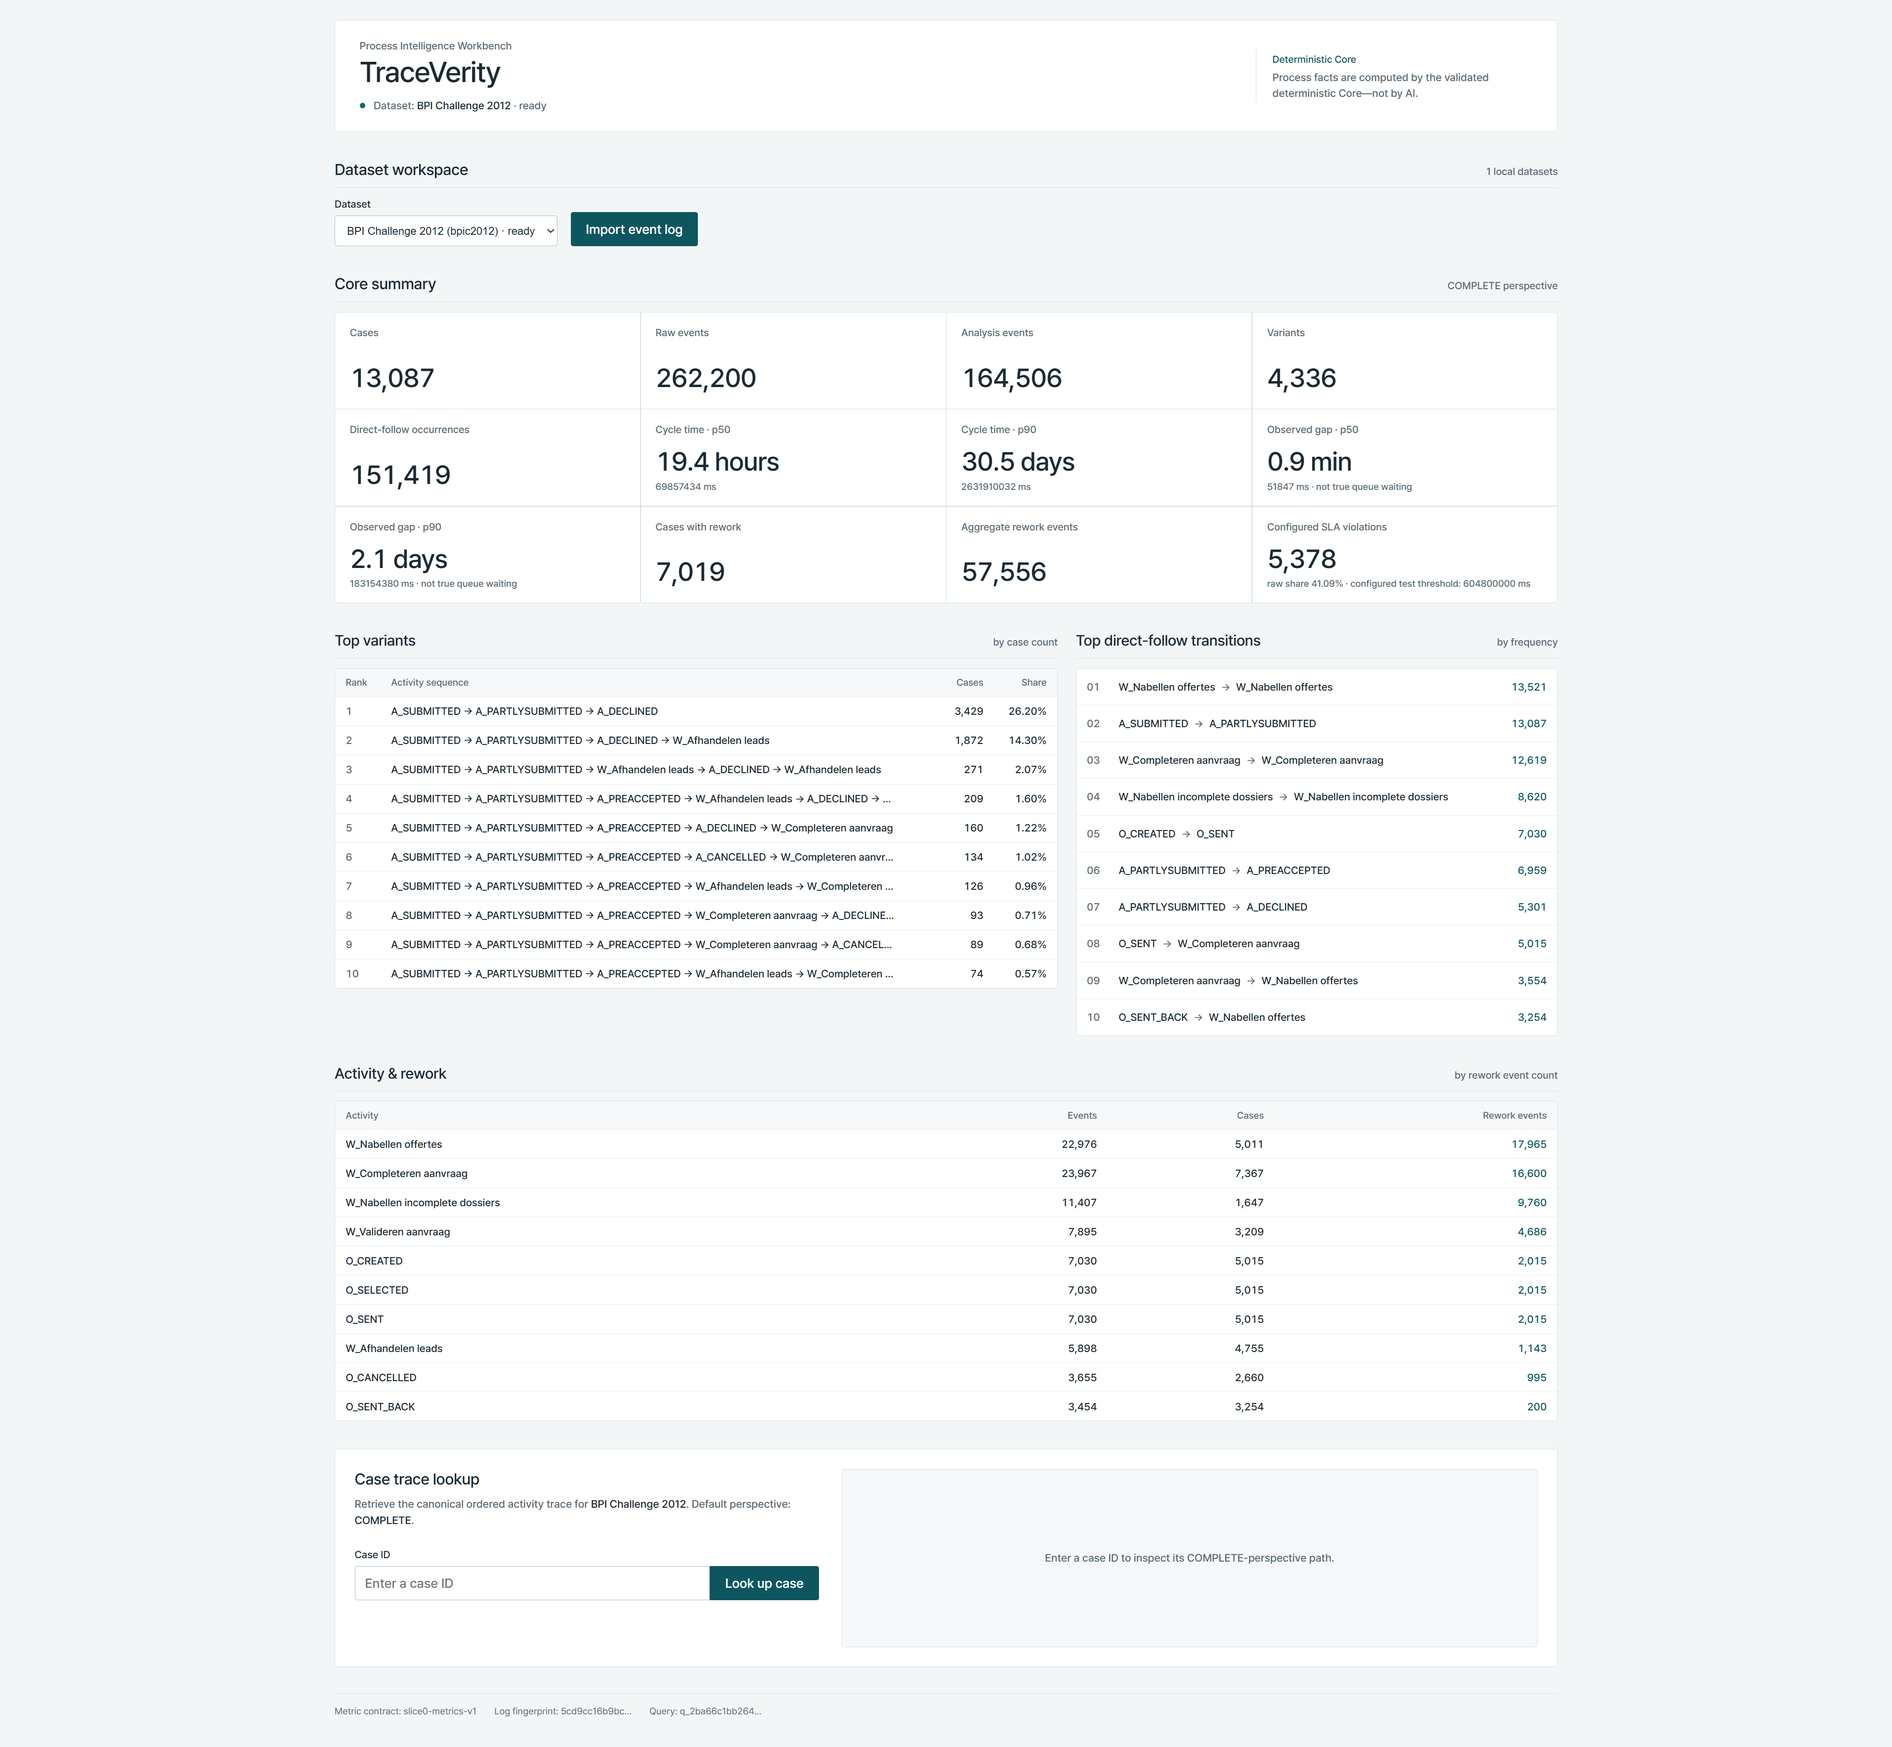
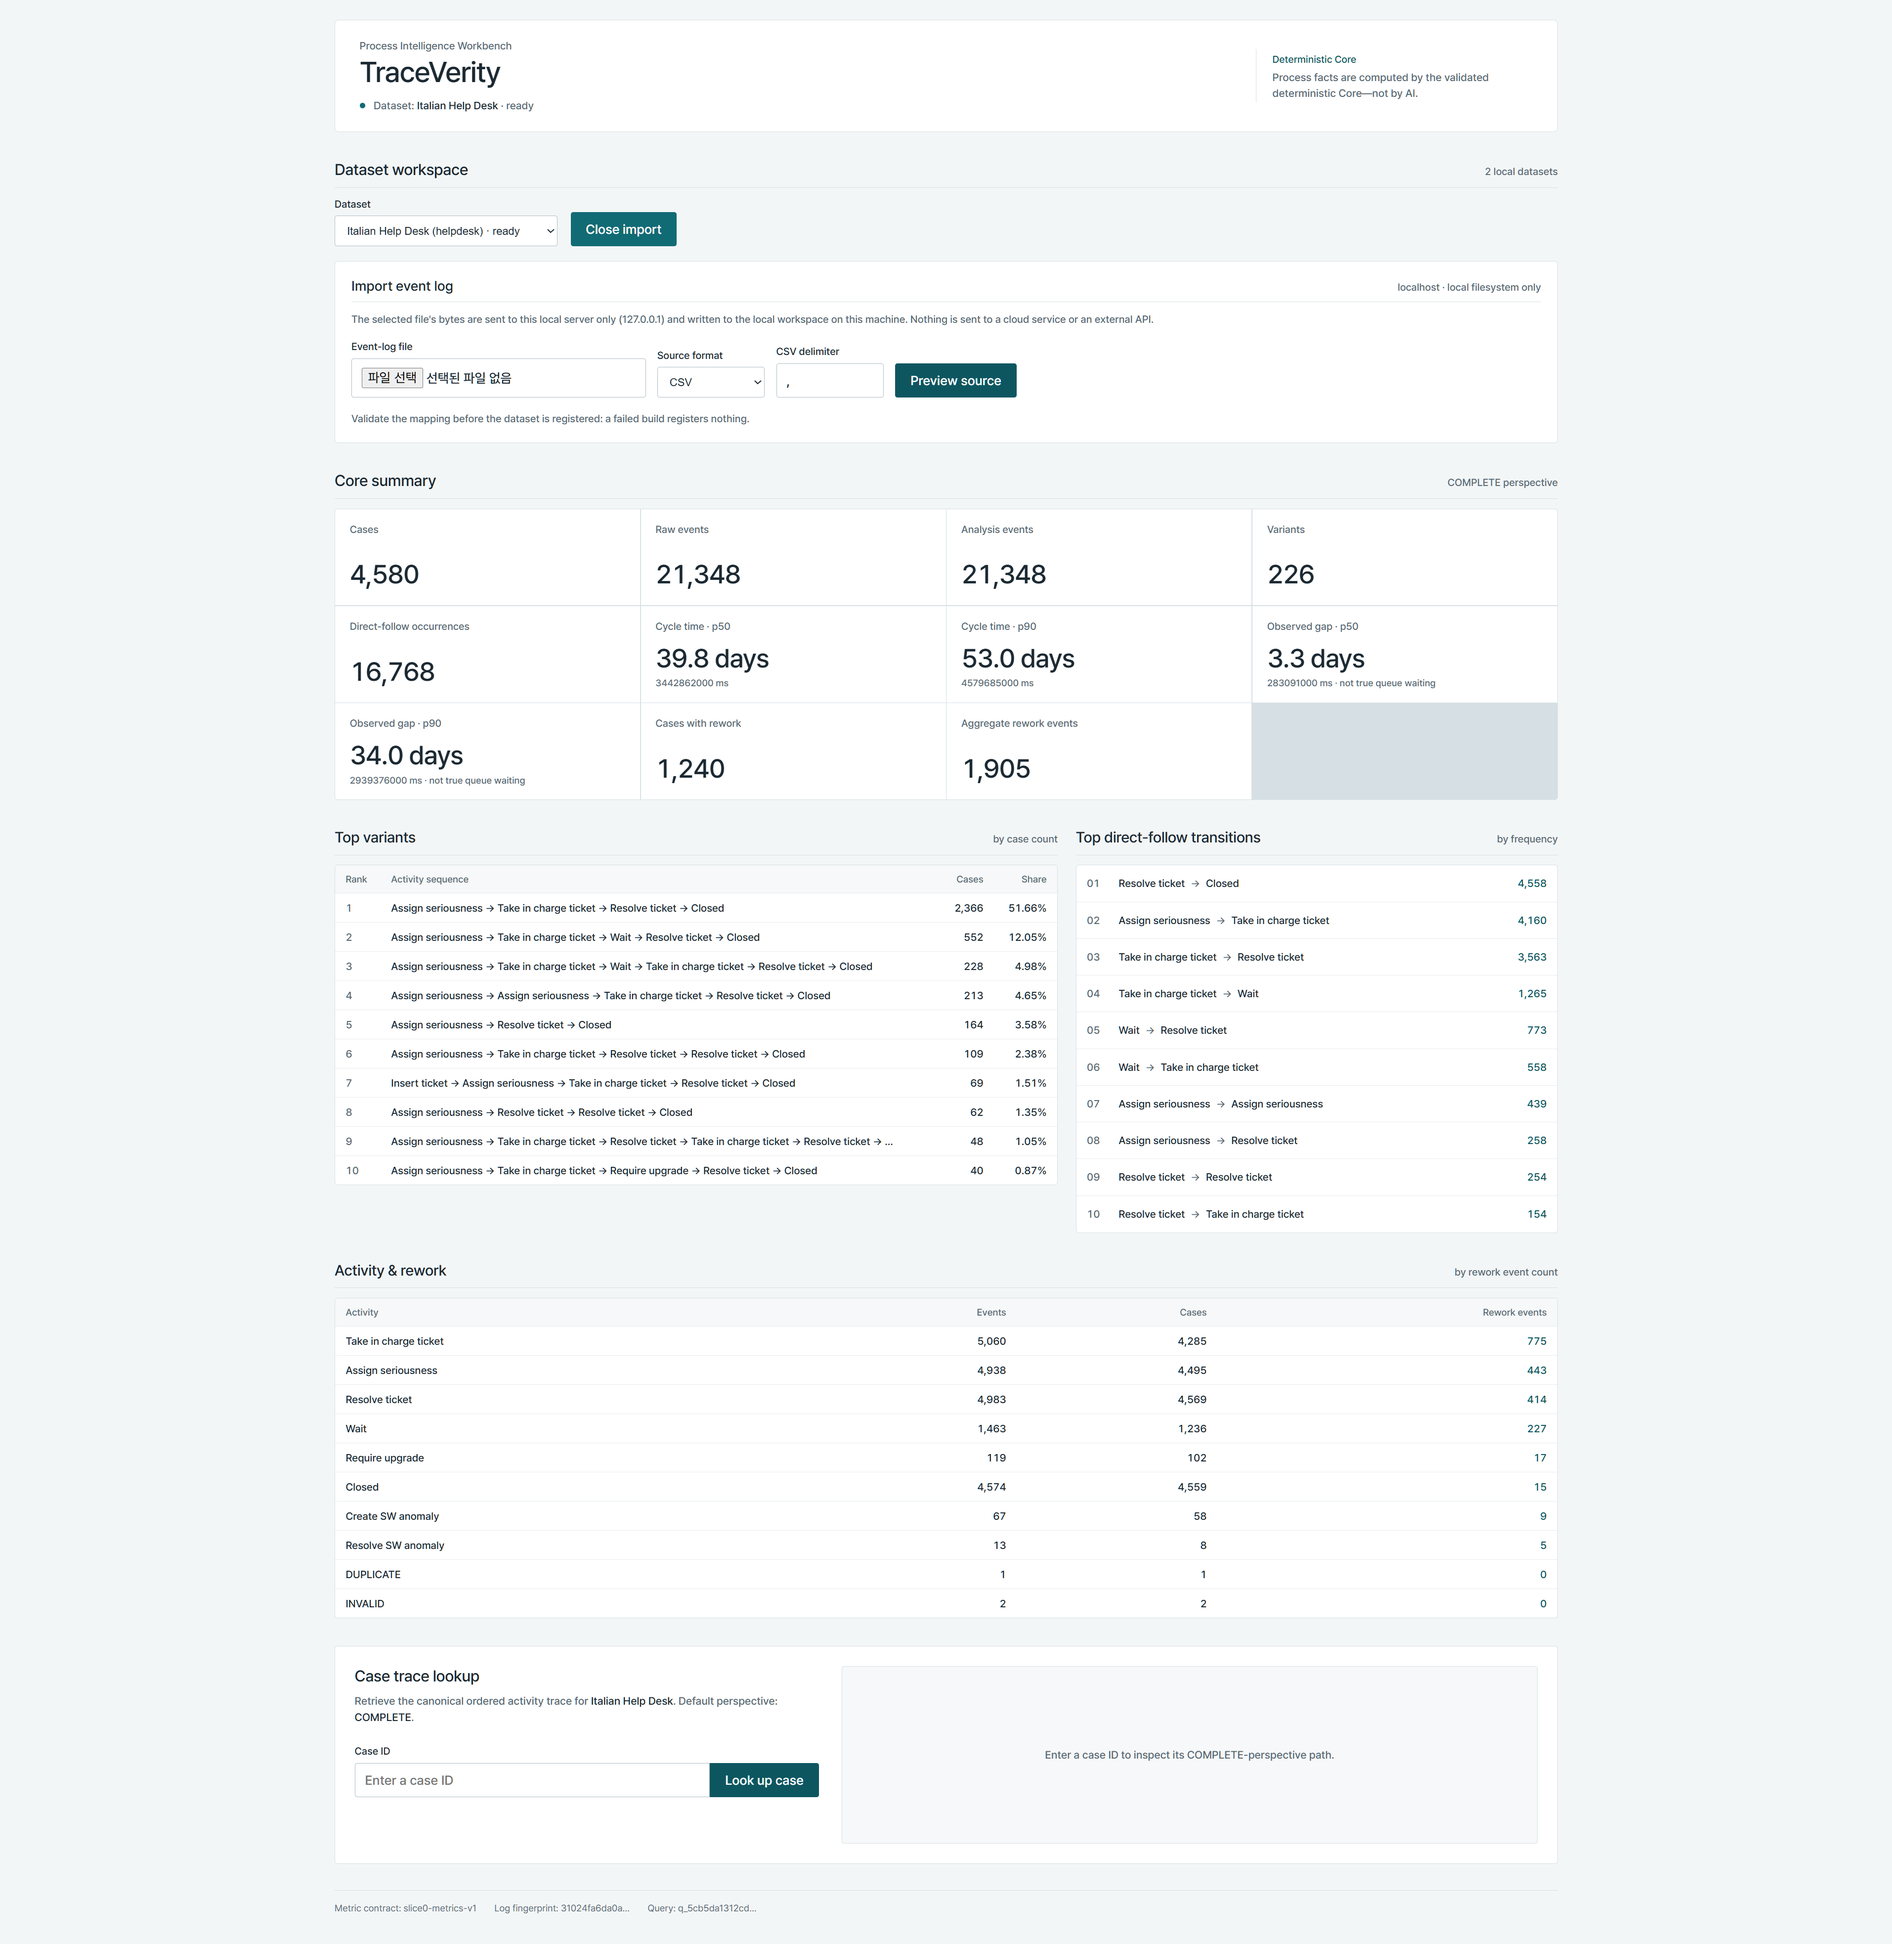
docs: emphasize browser onboarding in public presentation

diff --git a/docs/REPRODUCTION.md b/docs/REPRODUCTION.md
@@ -11,22 +11,7 @@ npm ci
 Set-Location ..
 ```
 
-## A. BPIC12 baseline reproduction
-
-- Dataset: BPI Challenge 2012
-- Author: Boudewijn van Dongen
-- DOI: `10.4121/uuid:3926db30-f712-4394-aebc-75976070e91f`
-- Licence label: `4TU General Terms of Use`
-- Expected file: `data/raw/BPI_Challenge_2012.xes.gz`
[1 lines of base64/hex data omitted]
-
-```powershell
-uv run piw-slice0
-```
-
-Expected baseline: 13,087 cases, 262,200 raw events, 164,506 analysis events, 24 activities, 4,336 variants, and 151,419 direct-follow occurrences. A wrong source fingerprint or failed invariant produces `HOLD`.
-
-## B. Generic browser onboarding
+## A. Generic browser onboarding
 
 Build and start the current product:
 
@@ -56,7 +41,7 @@ npm run test:e2e
 Set-Location ..
 ```
 
-## C. Optional real Help Desk reproduction
+## B. Optional real Help Desk reproduction
 
 Obtain the source separately from its public data provider.
 
@@ -81,6 +66,21 @@ Canonical CSV mapping:
 `UTC` is a deterministic normalization convention. TraceVerity does not claim the source timezone was established by the dataset documentation.
 
 Expected aggregates include 4,580 cases, 21,348 raw and analysis events, 14 activities, 226 variants, 16,768 direct-follow occurrences, 1,240 cases with rework, and 1,905 aggregate rework events. No default configured SLA scenario exists.
+
+## C. BPIC12 baseline reproduction
+
+- Dataset: BPI Challenge 2012
+- Author: Boudewijn van Dongen
+- DOI: `10.4121/uuid:3926db30-f712-4394-aebc-75976070e91f`
+- Licence label: `4TU General Terms of Use`
+- Expected file: `data/raw/BPI_Challenge_2012.xes.gz`
[1 lines of base64/hex data omitted]
+
+```powershell
+uv run piw-slice0
+```
+
+Expected baseline: 13,087 cases, 262,200 raw events, 164,506 analysis events, 24 activities, 4,336 variants, and 151,419 direct-follow occurrences. A wrong source fingerprint or failed invariant produces `HOLD`.
 
 ## D. Agent and MCP verification
 

diff --git a/README.md b/README.md
@@ -1,10 +1,10 @@
 # TraceVerity — Process Intelligence Workbench
 
-TraceVerity is a local-first Process Intelligence workbench that imports, maps, validates, and analyzes CSV, XES, and XES.GZ event logs through one deterministic Python/DuckDB Core proven across two real business processes.
+TraceVerity is a local-first Process Intelligence product. In the browser, a user can import a local CSV, XES, or XES.GZ event log, map and validate it, then immediately analyze it in the same deterministic Python/DuckDB-backed workbench proven across two real business processes.
 
 **AI never defines authoritative process metrics.** The browser, Direct Agent, and stdio MCP resolve datasets through the same Core-backed read path. The historical Power BI proof consumes a deterministic BPIC12 export rather than independently defining process metrics.
 
-![TraceVerity overview with the BPIC12 Dataset Workspace selected](docs/images/traceverity-overview.png)
+![Browser import controls open above the same deterministic workbench analyzing the imported Italian Help Desk dataset](docs/images/traceverity-overview.png)
 
 ## One process-truth boundary
 
@@ -35,7 +35,7 @@ Current contracts:
 
 ## Browser onboarding
 
-The Dataset Workspace supports local `.csv`, `.xes`, and `.xes.gz` files. A user previews source identity, maps CSV fields explicitly, states timestamp format/timezone interpretation, validates the source, and only then registers a ready dataset. The workbench can switch between registered datasets without changing the Core semantics.
+The Dataset Workspace supports local `.csv`, `.xes`, and `.xes.gz` files. A user previews source identity, maps CSV fields explicitly, states timestamp format/timezone interpretation, validates the source, and only then registers a ready dataset. The same workbench then immediately analyzes the selected dataset without changing Core semantics.
 
 ![The real Help Desk CSV imported and selected with 4,580 cases and no configured SLA card](docs/images/traceverity-helpdesk-onboarding.png)
 
